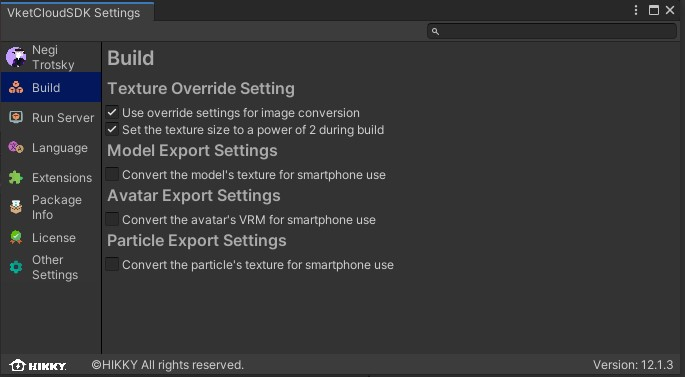
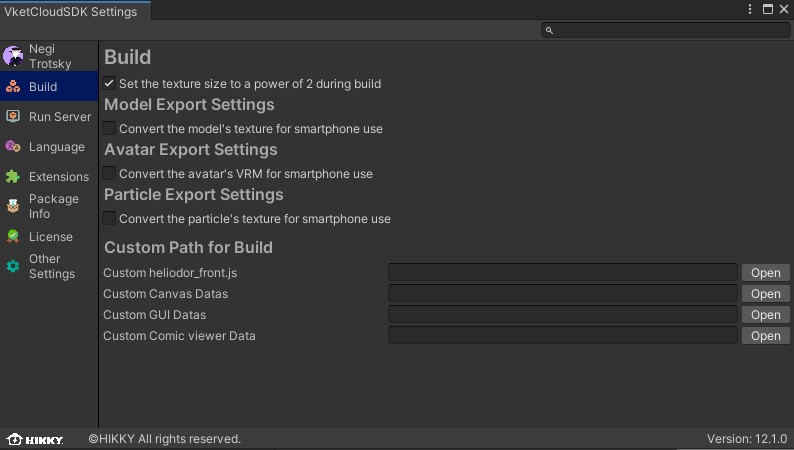
BuildOptions: テクスチャオーバライド設定の一部を削除、翻訳を追加。Custom Path for Fieldについて案内を追加。

diff --git a/docs/WorldEditingTips/BuildOptions.en.md b/docs/WorldEditingTips/BuildOptions.en.md
@@ -1,39 +1,41 @@
 # Build Options
 
-ビルド設定において、制作者はビルド時にワールドを構成するファイルに対して様々な操作を行うことができます。
+On build options, the creator can set various settings for world assets on build.
 
-ビルド設定を編集するには、VketCloudSDK > Settingsより設定ウィンドウを開き、「Build」タブを選択します。
-
-なお、ワールドのアップロード時には`Use override settings for image conversion`を除いた全ての設定項目が`true`に上書きされた状態でアップロードされます。
+To edit build options, Open VketCloudSDK > Settings, and select the "Build" tab.
 
 ![BuildOptions_1](img/BuildOptions_1.jpg)
 
-## テクスチャオーバーライド設定
+## Texture Override Settings
 
-| 名称 | 初期値 | 機能 |
+| Label | Initial Value | Function |
 | ---- | ---- | ---- |
-| Use override settings for image conversion | true | trueのとき、テクスチャのオーバーライド設定を使用します。 |
-| Set the texture size to a power of 2 during build | true | テクスチャのInspectorで指定したMaxSizeを基にファイルを変換します。 |
+| Set the texture size to a power of 2 during build | true | Convert texture size depending on the Maxsize designated on the texture's Inspector. |
 
-テクスチャのMaxSize(ビルド時に変換されるサイズ)はInspectorから指定が可能です。<br>
-これによって、どの程度圧縮がかけられるか設定が可能です。
+The texture's MaxSize(convert size on build) can be designated in the Inspector.<br>
+This designates how much the texture will be compressed.
 
 ![BuildOptions_2](img/BuildOptions_2.jpg)
 
-## モデル書き出し設定
+## Model Export Settings
 
-| 名称 | 初期値 | 機能 |
+| Label | Initial Value | Function |
 | ---- | ---- | ---- |
-| Convert the model's texture for smartphone use | false | heoファイルのテクスチャを圧縮し、スマートフォン用に軽量化します。 |
+| Convert the model's texture for smartphone use | false | Optimizes heo file textures for smartphone use by compressing file textures. |
 
-## アバター書き出し設定
+## Avatar Export Settings
 
-| 名称 | 初期値 | 機能 |
+| Label | Initial Value | Function |
 | ---- | ---- | ---- |
-| Convert the avatar's VRM for smartphone use | false | vrmファイルをhrmファイルへと変換し、軽量化を行った上でvrmをリソースに置かないように設定します。 |
+| Convert the avatar's VRM for smartphone use | false | Toggles conversion of vrm files to hrm files, optimizing size and preventing vrm files to be uploaded as resource. |
 
-## パーティクル書き出し設定
+## Particle Export Settings
 
-| 名称 | 初期値 | 機能 |
+| Label | Initial Value | Function |
 | ---- | ---- | ---- |
-| Convert the particle's texture for smartphone use | false | パーティクルファイルを圧縮し、スマートフォン用に軽量化します。 |
+| Convert the particle's texture for smartphone use | false | Optimizes particles for smartphone use by compressing files. |
+
+## Custom Path for Build
+
+!!! note caution
+    These settings are planned to be deleted on future updates. Please do not edit.

diff --git a/docs/WorldEditingTips/BuildOptions.ja.md b/docs/WorldEditingTips/BuildOptions.ja.md
@@ -4,15 +4,12 @@
 
 ビルド設定を編集するには、VketCloudSDK > Settingsより設定ウィンドウを開き、「Build」タブを選択します。
 
-なお、ワールドのアップロード時には`Use override settings for image conversion`を除いた全ての設定項目が`true`に上書きされた状態でアップロードされます。
-
 ![BuildOptions_1](img/BuildOptions_1.jpg)
 
 ## テクスチャオーバーライド設定
 
 | 名称 | 初期値 | 機能 |
 | ---- | ---- | ---- |
-| Use override settings for image conversion | true | trueのとき、テクスチャのオーバーライド設定を使用します。 |
 | Set the texture size to a power of 2 during build | true | テクスチャのInspectorで指定したMaxSizeを基にファイルを変換します。 |
 
 テクスチャのMaxSize(ビルド時に変換されるサイズ)はInspectorから指定が可能です。<br>
@@ -37,3 +34,8 @@
 | 名称 | 初期値 | 機能 |
 | ---- | ---- | ---- |
 | Convert the particle's texture for smartphone use | false | パーティクルファイルを圧縮し、スマートフォン用に軽量化します。 |
+
+## Custom Path for Field
+
+!!! note caution
+    本機能は将来のアップデートにて廃止されます。原則として使用しないようお願い致します。
